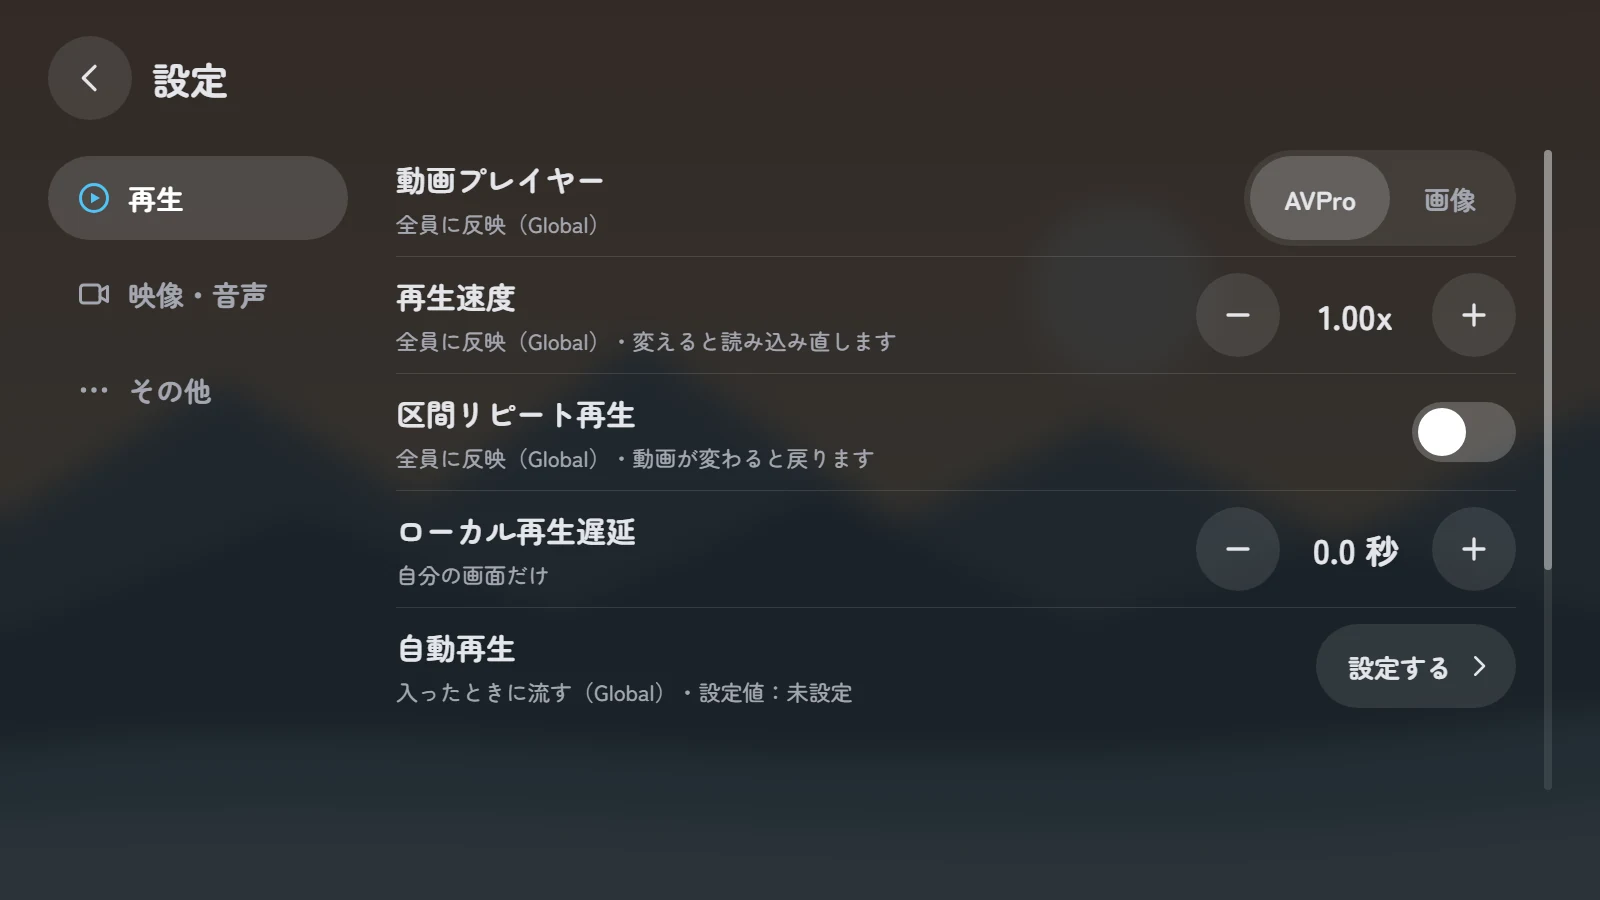
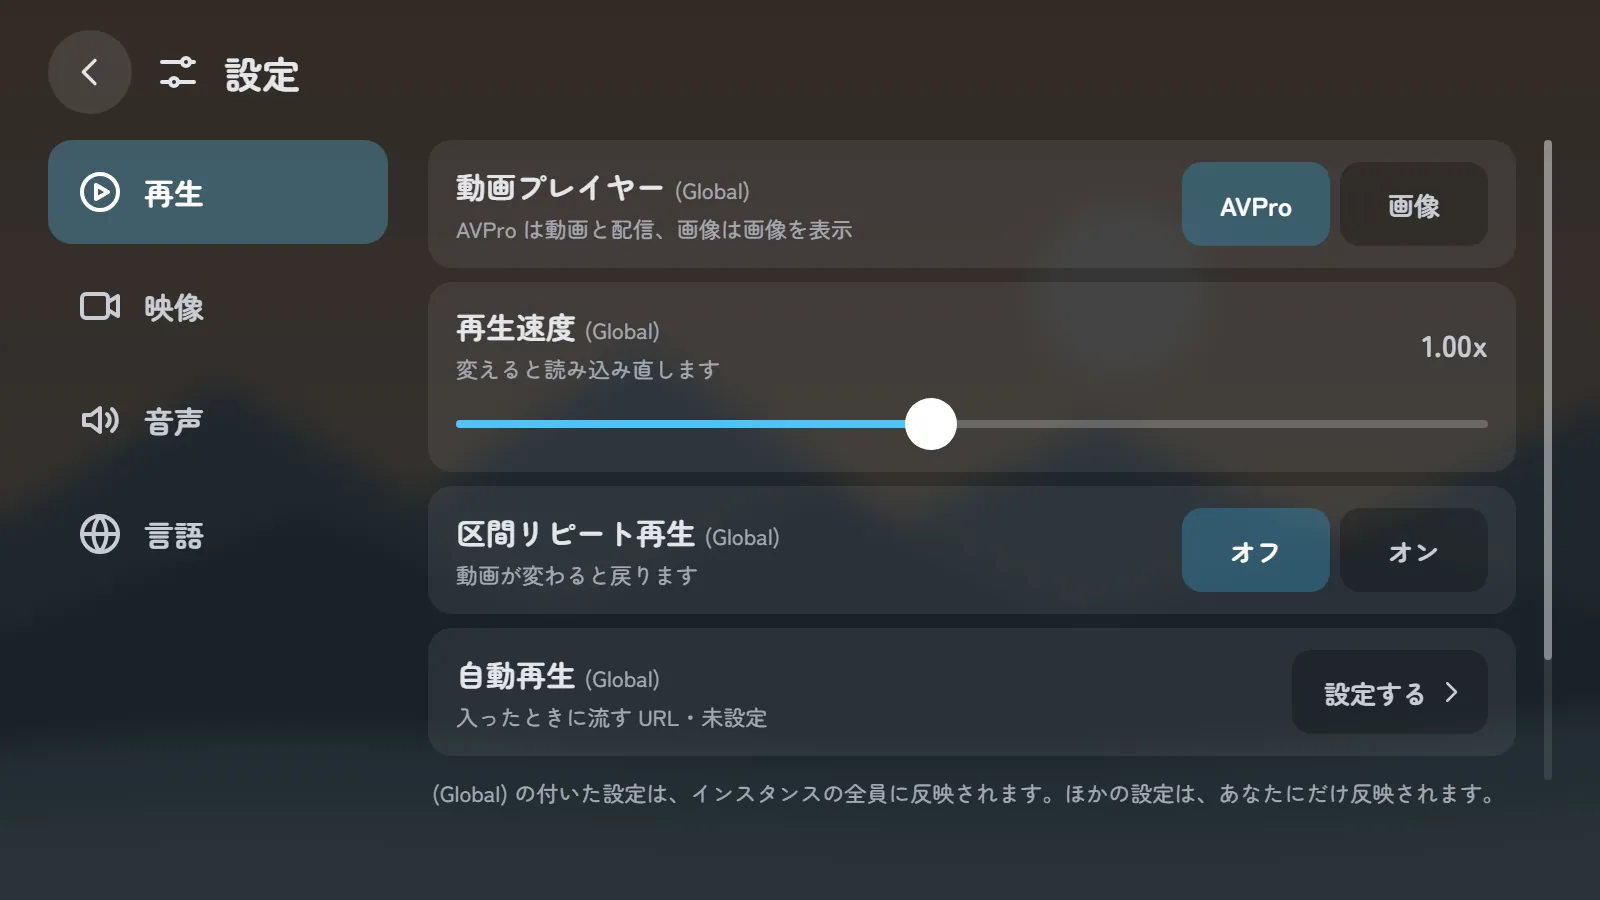
docs(design): share the settings UI between the screen and the tablet (#258)
The settings page becomes one part, made from the tablet's settings app,
used by both the screen and the tablet, so the UI is reused and there is
one settings UI to build, fix and check. The tablet shows the same items
as the screen, Global ones included (D6). The plan says how it is placed,
what goes (SettingPanel and its row prefabs), how a module's settings rows
come to be written once, and what P4 checks; figure 6 shows the new page.

Claude-Session: https://claude.ai/code/session_014UgSPcxLDoFJhLM3Stmszr

diff --git a/docs/design/258-screen-ui/images/mockups~/B5-Settings.html b/docs/design/258-screen-ui/images/mockups~/B5-Settings.html
@@ -8,13 +8,16 @@ button{font-family:inherit;color:inherit;border:0;margin:0;cursor:pointer}
 .ic .f{fill:currentColor;stroke:none}
 .cb{width:84px;height:84px;border-radius:42px;display:flex;align-items:center;justify-content:center;background:rgba(255,255,255,0.1);padding:0;flex-shrink:0}
 .cb svg{width:40px;height:40px}
-.pill{height:84px;padding:0 30px;border-radius:42px;display:flex;align-items:center;gap:12px;font-size:26px;font-weight:700;flex-shrink:0;background:rgba(255,255,255,0.1)}
-.cat{height:84px;padding:0 28px;border-radius:42px;display:flex;align-items:center;gap:16px;font-size:28px;font-weight:700;background:transparent;color:#A3A6B0;text-align:left}
-.cat svg{width:36px;height:36px}
-.set{display:flex;align-items:center;justify-content:space-between;gap:32px;min-height:116px;border-top:1px solid rgba(255,255,255,0.12)}
-.lab{display:flex;flex-direction:column;gap:6px;min-width:0}
+.cat{height:104px;padding:0 28px;border-radius:24px;display:flex;align-items:center;gap:20px;font-size:30px;font-weight:700;background:transparent;color:#C9CCD4;text-align:left}
+.cat svg{width:48px;height:48px}
+.card{padding:22px 28px;border-radius:24px;background:rgba(255,255,255,0.07);display:flex;flex-direction:column;gap:14px}
+.row{display:flex;align-items:center;justify-content:space-between;gap:24px}
+.lab{display:flex;flex-direction:column;gap:4px;min-width:0}
 .lab b{font-size:30px}
+.lab b small{font-size:22px;font-weight:500;color:#A3A6B0}
 .lab span{font-size:22px;color:#A3A6B0}
+.seg{display:flex;gap:10px;flex-shrink:0}
+.seg button{height:84px;min-width:148px;padding:0 30px;border-radius:20px;background:rgba(0,0,0,0.24);font-size:26px;font-weight:700;color:#C9CCD4}
 </style>
 </head><body style="margin:0">
 
@@ -36,73 +39,74 @@ button{font-family:inherit;color:inherit;border:0;margin:0;cursor:pointer}
   </svg>
   <div aria-hidden="true" style="position: absolute; left: 0; top: 0; width: 1600px; height: 900px; background: rgba(16,18,22,0.84); backdrop-filter: blur(16px); -webkit-backdrop-filter: blur(16px)"></div>
 
-  <header style="position: absolute; left: 48px; right: 48px; top: 36px; display: flex; align-items: center; gap: 20px">
+  <header style="position: absolute; left: 48px; right: 48px; top: 30px; display: flex; align-items: center; gap: 22px">
     <button class="cb" aria-label="設定を閉じて戻る">
       <svg class="ic" viewBox="0 0 24 24" aria-hidden="true"><path d="M15 5l-7 7 7 7"></path></svg>
     </button>
+    <svg class="ic" viewBox="0 0 24 24" style="width: 48px; height: 48px" aria-hidden="true"><path d="M4 7h10"></path><path d="M18 7h2"></path><path d="M4 17h4"></path><path d="M12 17h8"></path><circle cx="16" cy="7" r="2"></circle><circle cx="10" cy="17" r="2"></circle></svg>
     <span style="font-size: 38px; font-weight: 700">設定</span>
   </header>
 
-  <nav aria-label="設定の分類" style="position: absolute; left: 48px; top: 156px; width: 300px; display: flex; flex-direction: column; gap: 12px">
-    <button class="cat" aria-pressed="true" style="background: rgba(255,255,255,0.14); color: #FFFFFF">
-      <svg class="ic" viewBox="0 0 24 24" style="color: #4FC3F7" aria-hidden="true"><circle cx="12" cy="12" r="9"></circle><path class="f" d="M10 8.5v7l6-3.5z"></path></svg>再生
+  <nav aria-label="設定の分類" style="position: absolute; left: 48px; top: 140px; width: 340px; display: flex; flex-direction: column; gap: 10px">
+    <button class="cat" aria-pressed="true" style="background: color-mix(in srgb, #4FC3F7 28%, rgba(255,255,255,0.04)); color: #FFFFFF">
+      <svg class="ic" viewBox="0 0 24 24" aria-hidden="true"><circle cx="12" cy="12" r="9"></circle><path d="M10 8.5v7l6-3.5z"></path></svg>再生
     </button>
     <button class="cat">
-      <svg class="ic" viewBox="0 0 24 24" aria-hidden="true"><rect x="3" y="6" width="13" height="12" rx="2"></rect><path d="M16 10l5-3v10l-5-3"></path></svg>映像・音声
+      <svg class="ic" viewBox="0 0 24 24" aria-hidden="true"><rect x="3" y="6" width="13" height="12" rx="2"></rect><path d="M16 10l5-3v10l-5-3"></path></svg>映像
     </button>
     <button class="cat">
-      <svg class="ic" viewBox="0 0 24 24" aria-hidden="true"><circle class="f" cx="5" cy="12" r="1.8"></circle><circle class="f" cx="12" cy="12" r="1.8"></circle><circle class="f" cx="19" cy="12" r="1.8"></circle></svg>その他
+      <svg class="ic" viewBox="0 0 24 24" aria-hidden="true"><path d="M4 9.5h3.5L12 6v12l-4.5-3.5H4z"></path><path d="M15.5 9a4 4 0 0 1 0 6"></path><path d="M18 6.5a7.5 7.5 0 0 1 0 11"></path></svg>音声
+    </button>
+    <button class="cat">
+      <svg class="ic" viewBox="0 0 24 24" aria-hidden="true"><circle cx="12" cy="12" r="9"></circle><path d="M3 12h18"></path><path d="M12 3a14 14 0 0 1 0 18"></path><path d="M12 3a14 14 0 0 0 0 18"></path></svg>言語
     </button>
   </nav>
 
-  <section aria-label="再生の設定" style="position: absolute; left: 396px; right: 84px; top: 140px; display: flex; flex-direction: column">
-    <div class="set" style="border-top: 0">
-      <div class="lab"><b>動画プレイヤー</b><span>全員に反映（Global）</span></div>
-      <div style="display: flex; padding: 6px; border-radius: 48px; background: rgba(255,255,255,0.08)">
-        <button aria-pressed="true" style="height: 84px; padding: 0 34px; border-radius: 42px; background: rgba(255,255,255,0.18); font-size: 26px; font-weight: 700">AVPro</button>
-        <button style="height: 84px; padding: 0 34px; border-radius: 42px; background: transparent; font-size: 26px; font-weight: 700; color: #A3A6B0">画像</button>
+  <section aria-label="再生の設定" style="position: absolute; left: 428px; right: 84px; top: 140px; display: flex; flex-direction: column; gap: 14px">
+    <div class="card">
+      <div class="row">
+        <div class="lab"><b>動画プレイヤー <small>(Global)</small></b><span>AVPro は動画と配信、画像は画像を表示</span></div>
+        <div class="seg">
+          <button aria-pressed="true" style="background: color-mix(in srgb, #4FC3F7 32%, rgba(0,0,0,0.2)); color: #FFFFFF">AVPro</button>
+          <button>画像</button>
+        </div>
       </div>
     </div>
-    <div class="set">
-      <div class="lab"><b>再生速度</b><span>全員に反映（Global）・変えると読み込み直します</span></div>
-      <div style="display: flex; align-items: center; gap: 16px">
-        <button class="cb" aria-label="遅くする">
-          <svg class="ic" viewBox="0 0 24 24" aria-hidden="true"><path d="M6 12h12"></path></svg>
-        </button>
-        <span style="width: 120px; text-align: center; font-size: 34px; font-weight: 700; font-variant-numeric: tabular-nums">1.00x</span>
-        <button class="cb" aria-label="速くする">
-          <svg class="ic" viewBox="0 0 24 24" aria-hidden="true"><path d="M6 12h12"></path><path d="M12 6v12"></path></svg>
-        </button>
+    <div class="card">
+      <div class="row">
+        <div class="lab"><b>再生速度 <small>(Global)</small></b><span>変えると読み込み直します</span></div>
+        <span style="font-size: 30px; font-weight: 700; color: #C9CCD4; font-variant-numeric: tabular-nums">1.00x</span>
+      </div>
+      <div aria-hidden="true" style="position: relative; height: 52px">
+        <div style="position: absolute; left: 0; right: 0; top: 22px; height: 8px; border-radius: 4px; background: rgba(255,255,255,0.22)"></div>
+        <div style="position: absolute; left: 0; width: 46%; top: 22px; height: 8px; border-radius: 4px; background: #4FC3F7"></div>
+        <div style="position: absolute; left: calc(46% - 26px); top: 0; width: 52px; height: 52px; border-radius: 26px; background: #FFFFFF"></div>
       </div>
     </div>
-    <div class="set">
-      <div class="lab"><b>区間リピート再生</b><span>全員に反映（Global）・動画が変わると戻ります</span></div>
-      <button aria-label="区間リピート再生" aria-pressed="false" style="width: 104px; height: 60px; border-radius: 30px; background: rgba(255,255,255,0.22); position: relative; padding: 0">
-        <span style="position: absolute; left: 6px; top: 6px; width: 48px; height: 48px; border-radius: 24px; background: #FFFFFF"></span>
-      </button>
-    </div>
-    <div class="set">
-      <div class="lab"><b>ローカル再生遅延</b><span>自分の画面だけ</span></div>
-      <div style="display: flex; align-items: center; gap: 16px">
-        <button class="cb" aria-label="遅らせる量を減らす">
-          <svg class="ic" viewBox="0 0 24 24" aria-hidden="true"><path d="M6 12h12"></path></svg>
-        </button>
-        <span style="width: 120px; text-align: center; font-size: 34px; font-weight: 700; font-variant-numeric: tabular-nums">0.0 秒</span>
-        <button class="cb" aria-label="遅らせる量を増やす">
-          <svg class="ic" viewBox="0 0 24 24" aria-hidden="true"><path d="M6 12h12"></path><path d="M12 6v12"></path></svg>
-        </button>
+    <div class="card">
+      <div class="row">
+        <div class="lab"><b>区間リピート再生 <small>(Global)</small></b><span>動画が変わると戻ります</span></div>
+        <div class="seg">
+          <button aria-pressed="true" style="background: color-mix(in srgb, #4FC3F7 32%, rgba(0,0,0,0.2)); color: #FFFFFF">オフ</button>
+          <button>オン</button>
+        </div>
       </div>
     </div>
-    <div class="set">
-      <div class="lab"><b>自動再生</b><span>入ったときに流す（Global）・設定値：未設定</span></div>
-      <button class="pill" style="padding: 0 22px 0 32px">設定する
-        <svg class="ic" viewBox="0 0 24 24" style="width: 30px; height: 30px" aria-hidden="true"><path d="M9 5l7 7-7 7"></path></svg>
-      </button>
+    <div class="card">
+      <div class="row">
+        <div class="lab"><b>自動再生 <small>(Global)</small></b><span>入ったときに流す URL・未設定</span></div>
+        <div class="seg">
+          <button style="display: flex; align-items: center; gap: 8px; padding: 0 22px 0 32px">設定する
+            <svg class="ic" viewBox="0 0 24 24" style="width: 30px; height: 30px" aria-hidden="true"><path d="M9 5l7 7-7 7"></path></svg>
+          </button>
+        </div>
+      </div>
     </div>
+    <p style="margin: 6px 0 0 4px; font-size: 22px; color: #A3A6B0">(Global) の付いた設定は、インスタンスの全員に反映されます。ほかの設定は、あなたにだけ反映されます。</p>
   </section>
 
-  <div aria-hidden="true" style="position: absolute; right: 48px; top: 150px; width: 8px; height: 640px; border-radius: 4px; background: rgba(255,255,255,0.1)">
-    <div style="width: 8px; height: 420px; border-radius: 4px; background: rgba(255,255,255,0.4)"></div>
+  <div aria-hidden="true" style="position: absolute; right: 48px; top: 140px; width: 8px; height: 640px; border-radius: 4px; background: rgba(255,255,255,0.1)">
+    <div style="width: 8px; height: 520px; border-radius: 4px; background: rgba(255,255,255,0.4)"></div>
   </div>
 </div>
 </body></html>
